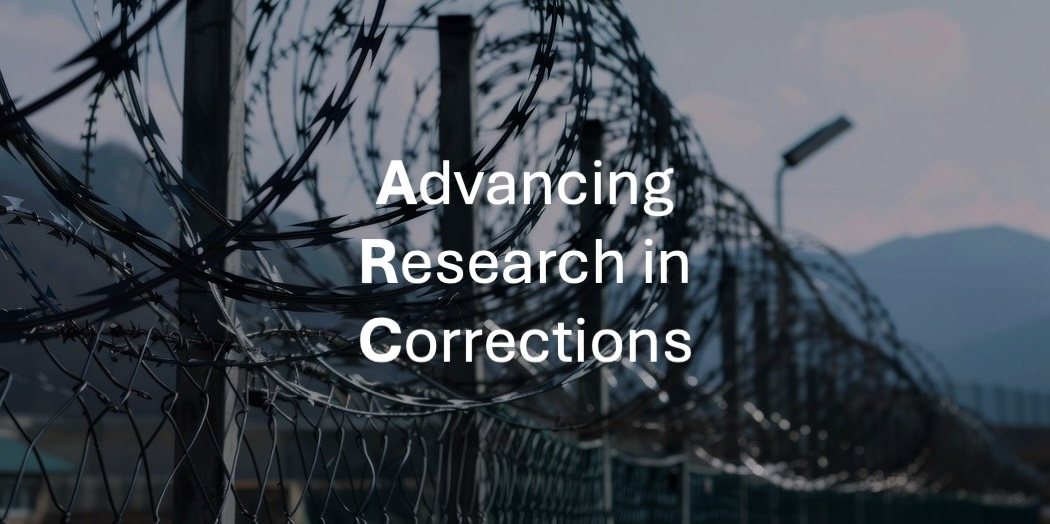
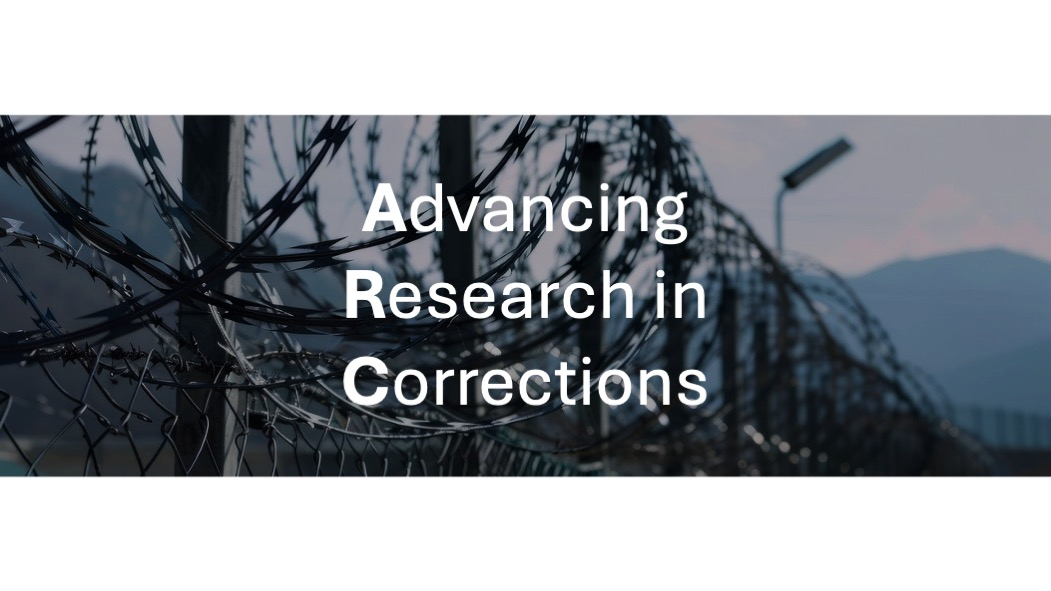
home page

diff --git a/content/_index.md b/content/_index.md
@@ -14,7 +14,7 @@ sections:
       columns: '1'
       background:
         image: 
-          filename: coders.jpg
+          filename: welcome_arc.jpg
           filters:
             brightness: 1
           parallax: false
